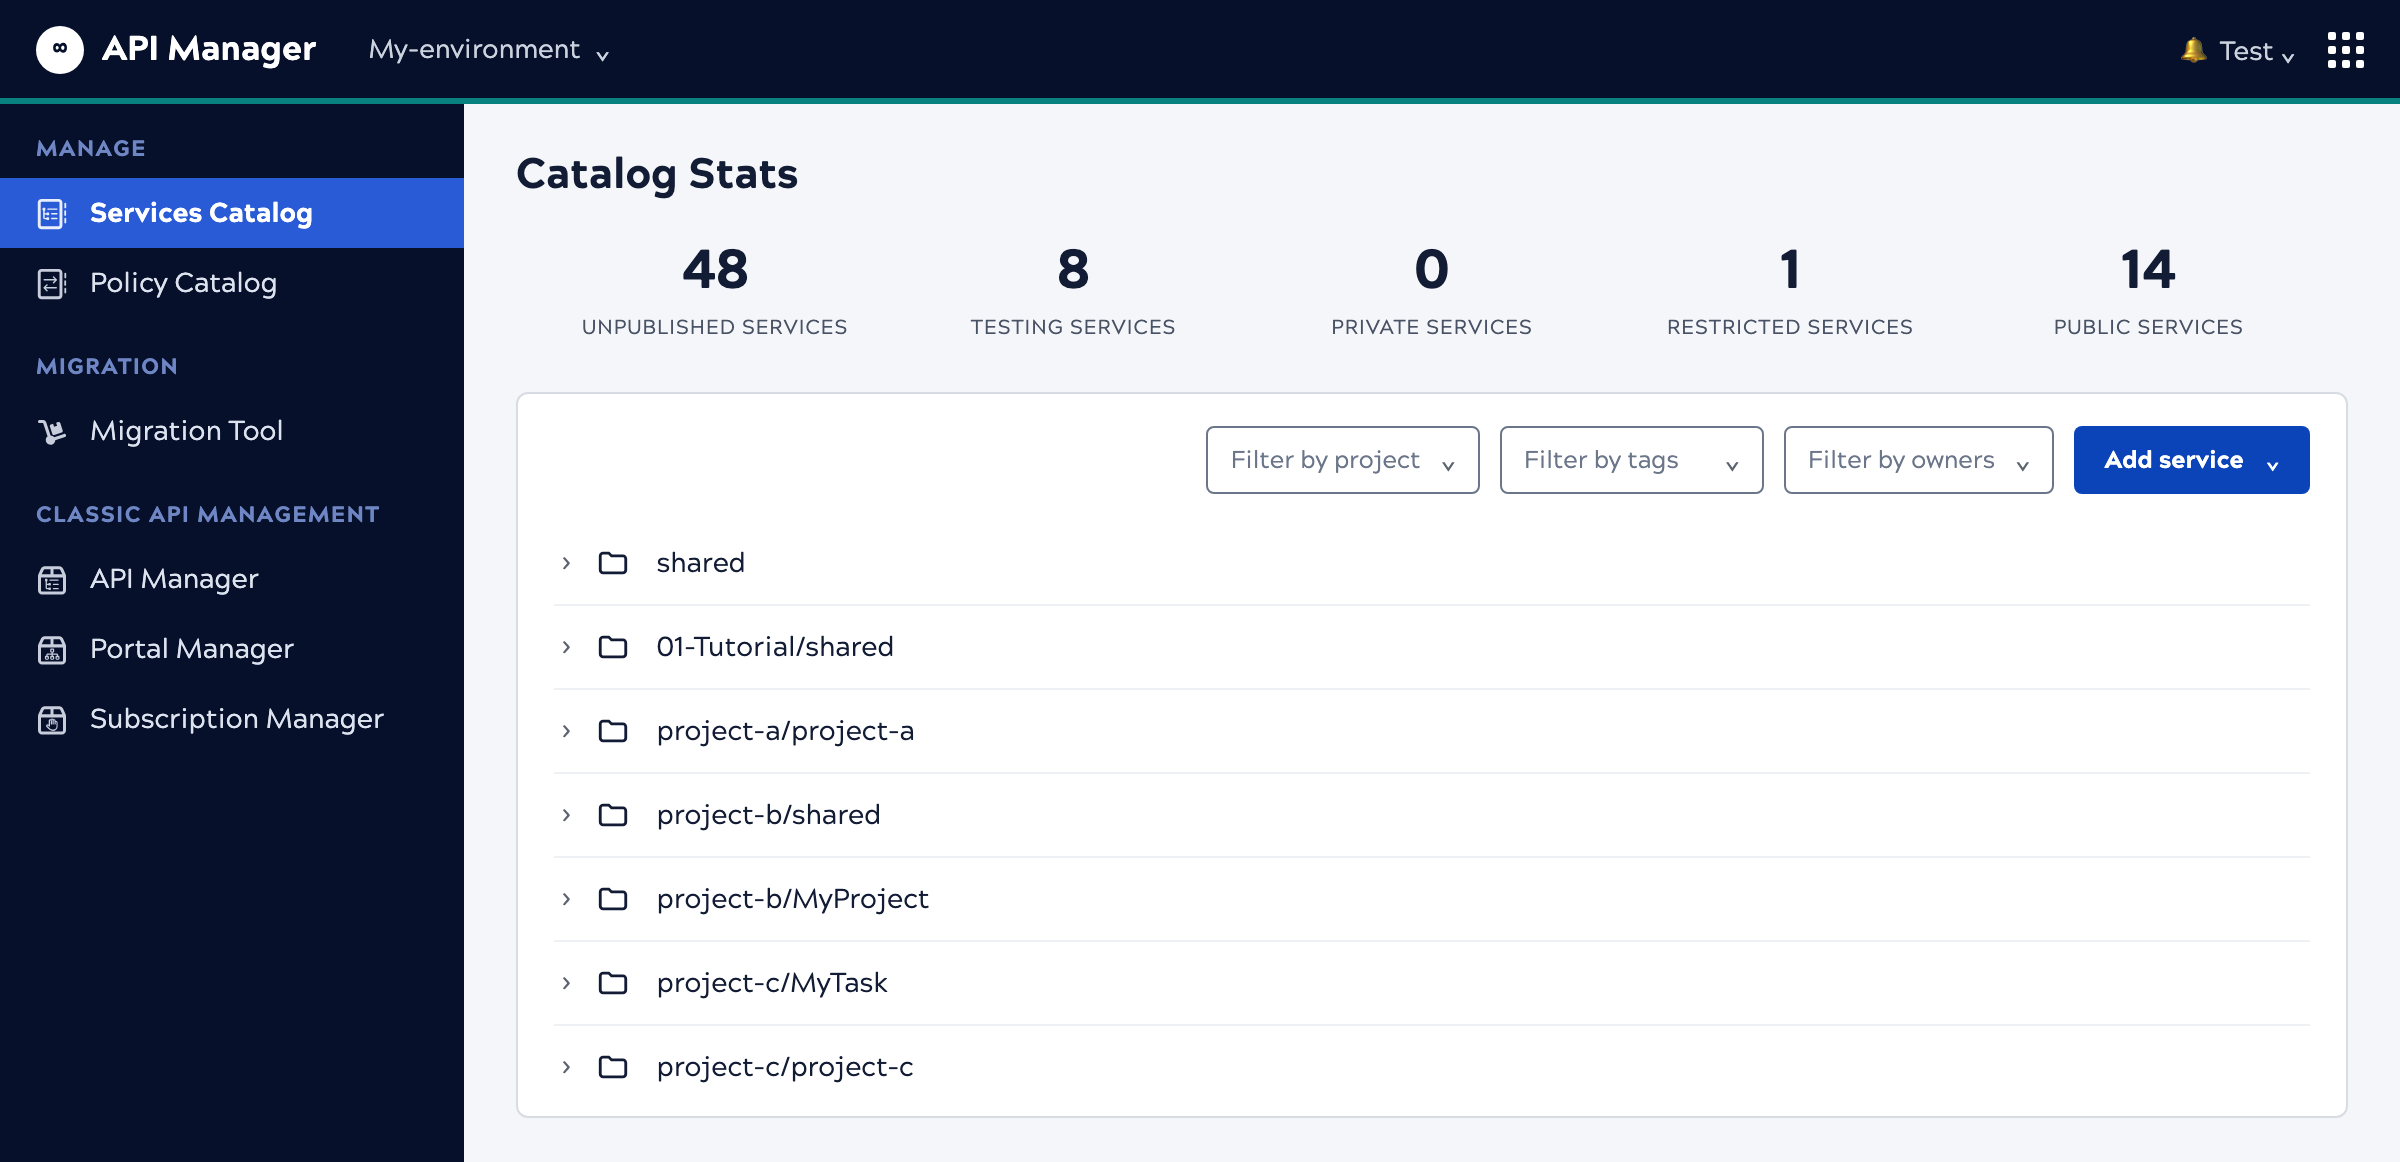
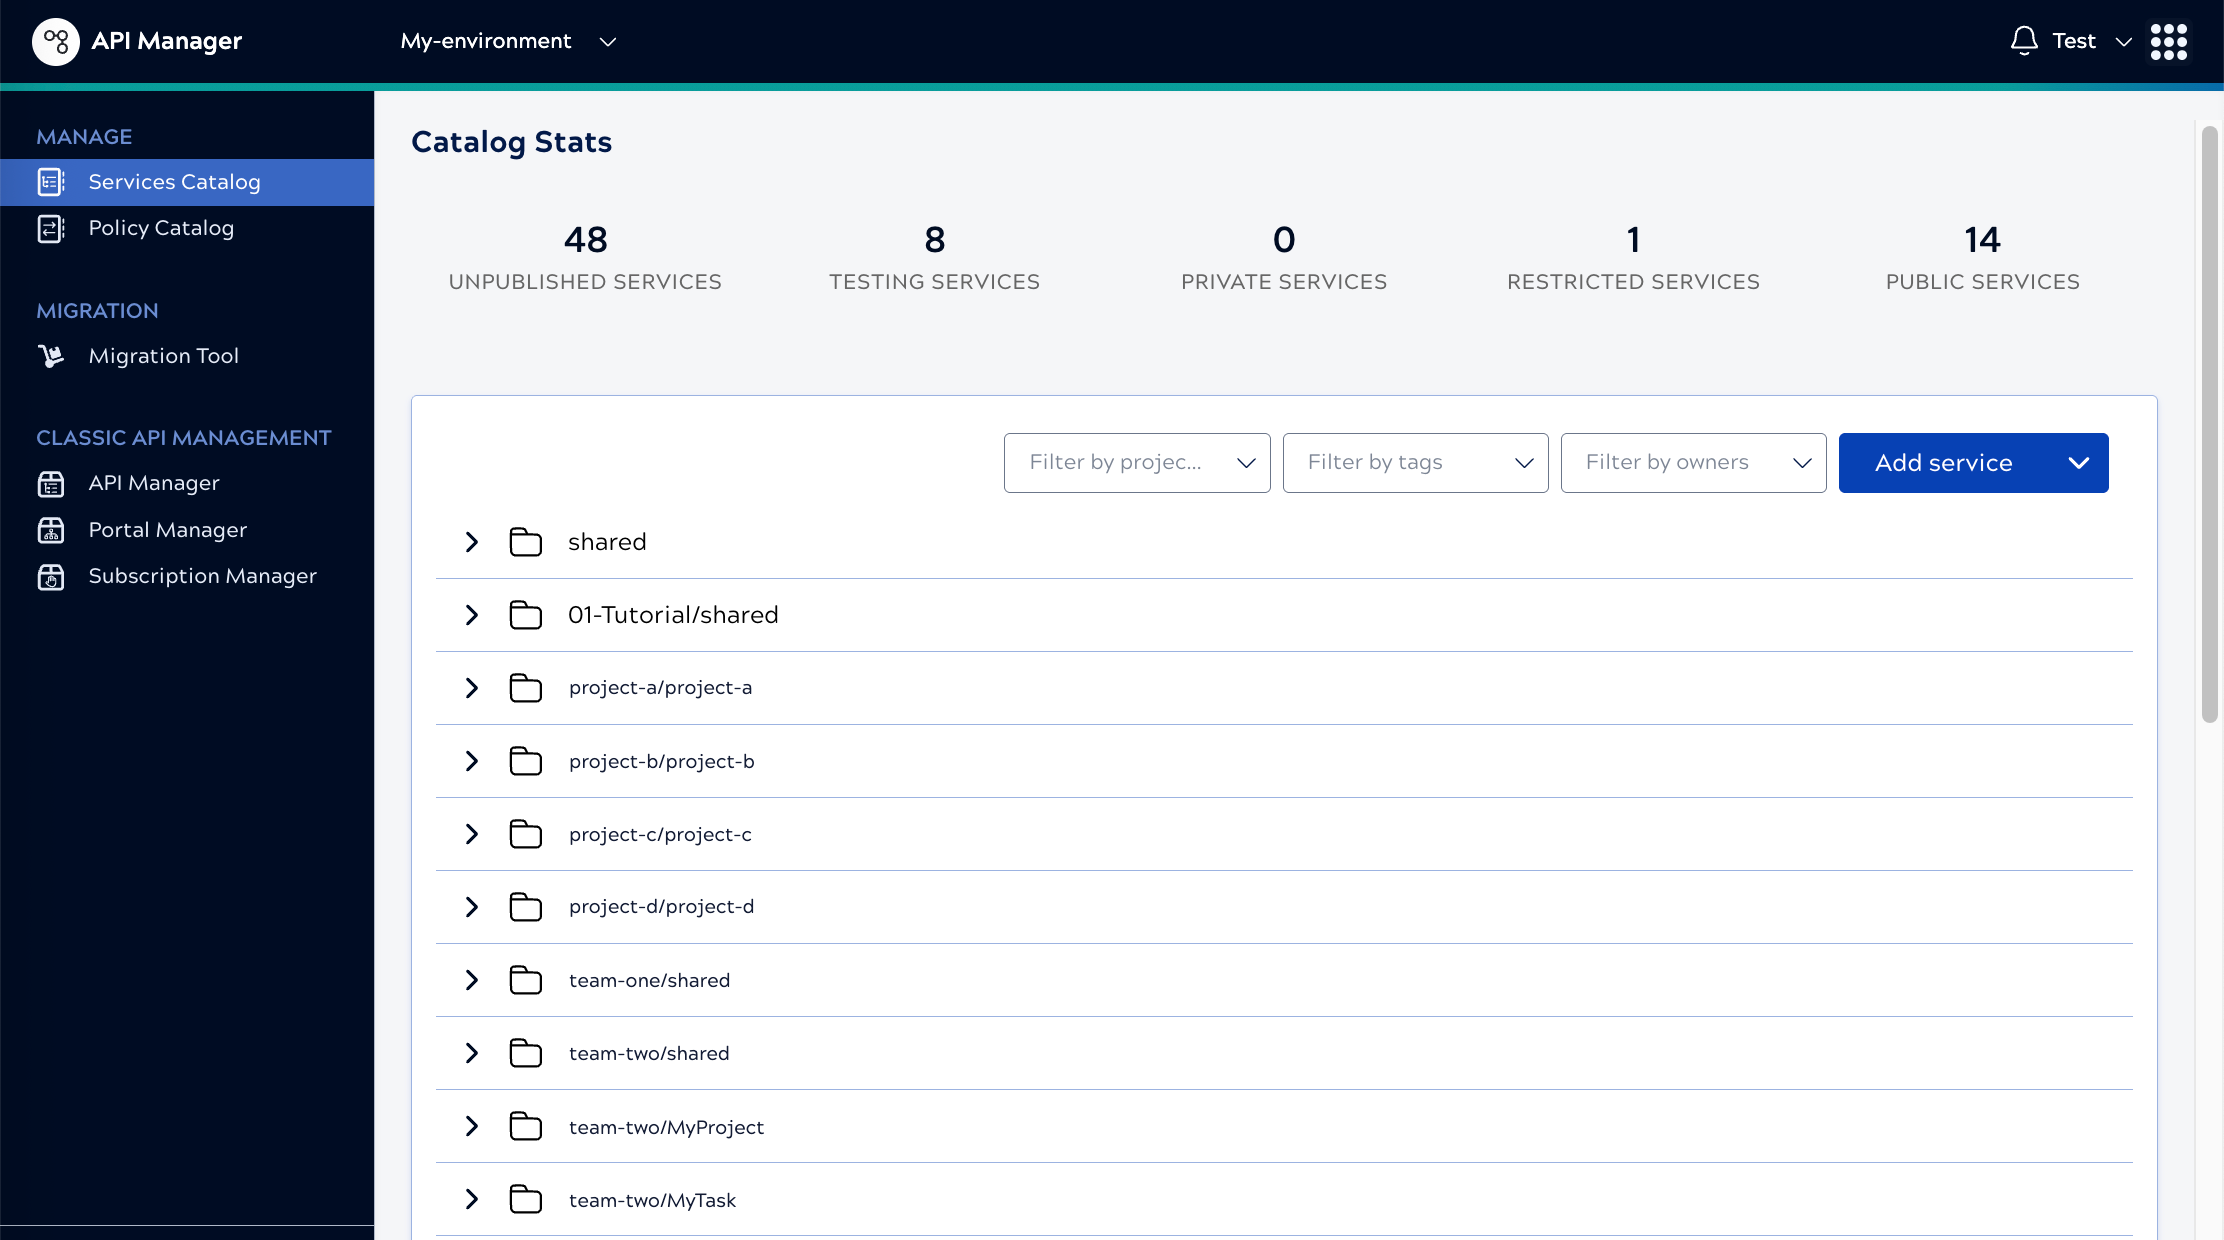
Use the real screenshot for the catalog page, with names masked
current-ui.png is now Ruth's own capture rather than an HTML redraw. Only the
eight folder rows carrying colleague names and a ticket number are replaced,
set in the product's own font so the substitution is invisible; everything else
is real pixels. The raw capture and the masking kit live in
~/Git/apim-3-review/screenshots/, outside this public repo.

Also drops the "is headed" passive from the alt text.

diff --git a/apim-3/services-catalog/index.html b/apim-3/services-catalog/index.html
@@ -271,10 +271,10 @@
   <figure class="shot">
     <img src="current-ui.png" alt="The Services catalog page today. The left navigation pane lists
       Services Catalog and Policy Catalog under Manage, Migration Tool under Migration, and API Manager,
-      Portal Manager, and Subscription Manager under Classic API Management. The page is headed Catalog
-      Stats above five counts — 48 unpublished, 8 testing, 0 private, 1 restricted, 14 public services
+      Portal Manager, and Subscription Manager under Classic API Management. The page heading reads Catalog
+      Stats, above five counts — 48 unpublished, 8 testing, 0 private, 1 restricted, 14 public services
       — and a card holding three filters, an Add service button, and rows of identical folder icons
-      labelled shared, 01-Tutorial/shared, project-a/project-a, and so on.">
+      labelled shared, 01-Tutorial/shared, project-a/project-a, team-two/MyProject, and so on.">
   </figure>
 
   <h2 id="first-experience">The first experience</h2>
